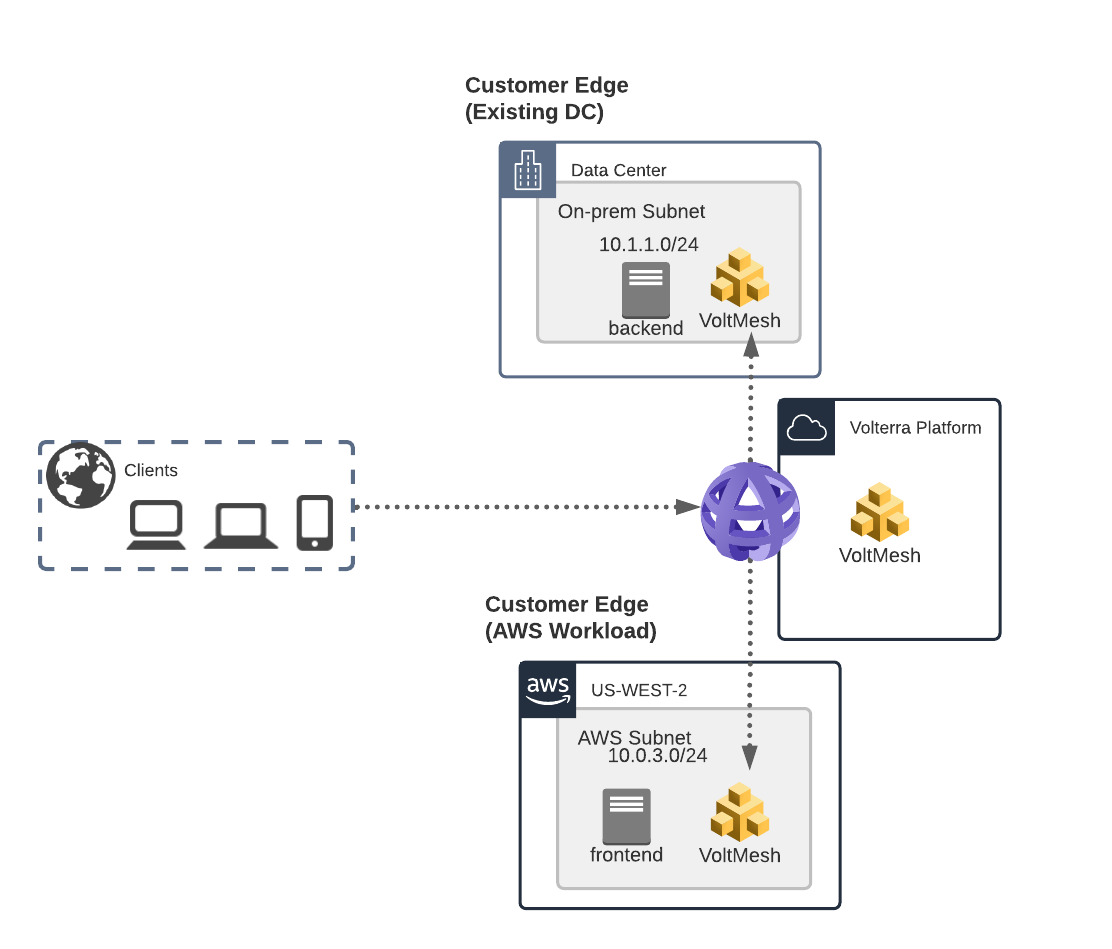
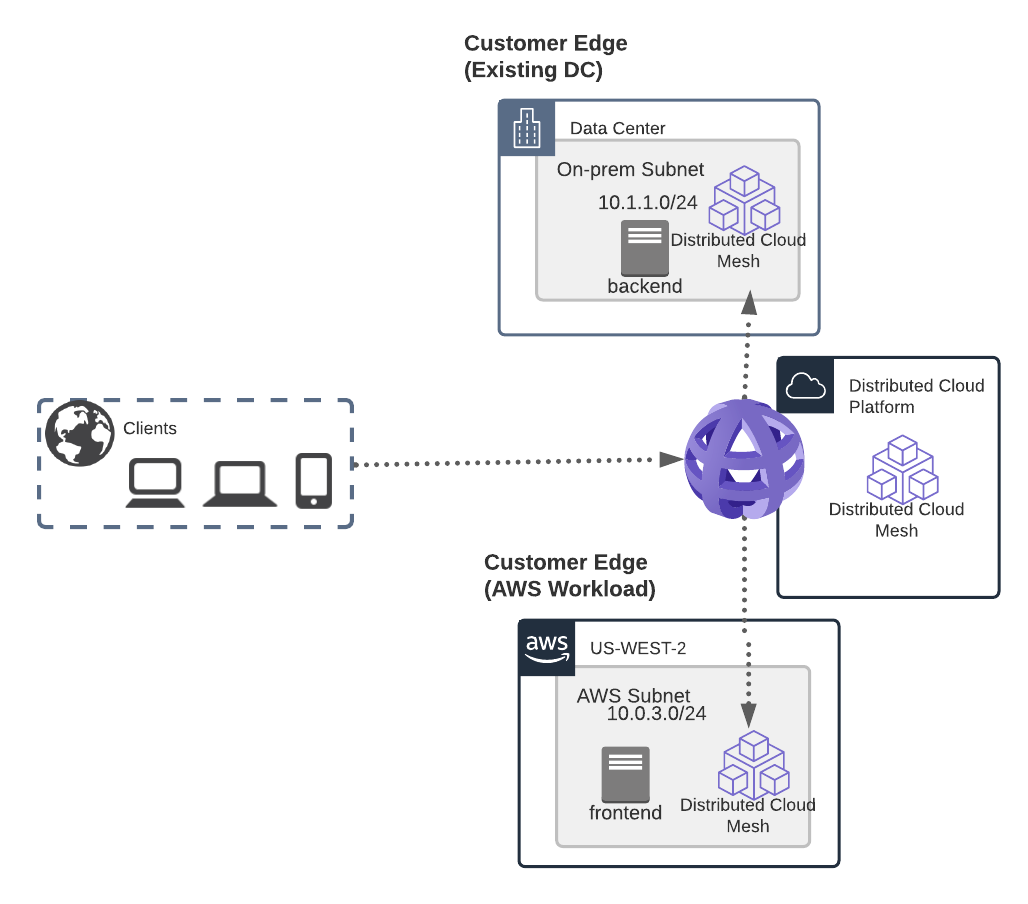
lab updates

Changed region(s): [[0.4047, 0.031, 0.9961, 0.9602], [0.0311, 0.4336, 0.4047, 0.6195]]

diff --git a/testdrive/networking/docs/lab3/index.rst b/testdrive/networking/docs/lab3/index.rst
@@ -13,11 +13,13 @@ The following video will also review the process: https://youtu.be/onKw3aKSdIA
 
 In the "Live" lab environment there is an existing "on-prem" site "student-udf" and "cloud" site "student-awsnet".
 
-This next lab will create a Volterra Load Balancer resource that will enable
+This next lab will create a Distributed Cloud Load Balancer resource that will enable
 you to access both sites from a local Virtual IP.
 
-- Create TCP LB with domain studentXX.backend.example.local on port 8443 to 10.1.20.5 on UDF site
-- Create HTTP LB with delegated domain to IP of workload host in AWS on port 8080
+- Use "F5 Simulator" to experience how to deploy a Distributed Cloud AWS Site via the Distributed Cloud Console
+- Create HTTP LB with delegated domain to an existing "Public" resource in the shared AWS lab environment
+- Update HTTP LB to point to an existing "Private" source in the shared AWS lab environment
+- Create TCP LB with domain studentXXX.example.internal on port 8443 to 10.1.20.5 on UDF site
 
 .. toctree::
    :maxdepth: 1

diff --git a/testdrive/networking/docs/lab3/tcplb.rst b/testdrive/networking/docs/lab3/tcplb.rst
@@ -195,7 +195,7 @@ Using the "In Container Diagnostic Services"
 You should see an output.  Now try repeating the same but using the IP address that you retrieved in Exercise 4.
 
 #. Click on "Run Command"
-#. Enter "curl -sk https://10.0.3.XX" (replace XX with the value your retrieved in Exercise 4)
+#. Enter "curl -sk https://10.0.5.XX" (replace XX with the value your retrieved in Exercise 4)
 #. Click on Run Command
 
 You should see an error.  This is because Distributed Cloud is expecting an SNI value.  This allows you to re-use

diff --git a/testdrive/networking/docs/lab3/httplb.rst b/testdrive/networking/docs/lab3/httplb.rst
@@ -47,8 +47,6 @@ We will first create an Origin Pool that refers to the frontend application serv
 
 #. Enter the following variables:
 
-    Use the private IP address for the workload instance that you created in the previous exercise.
-
     ================================= =====
     Variable                          Value
     ================================= =====
